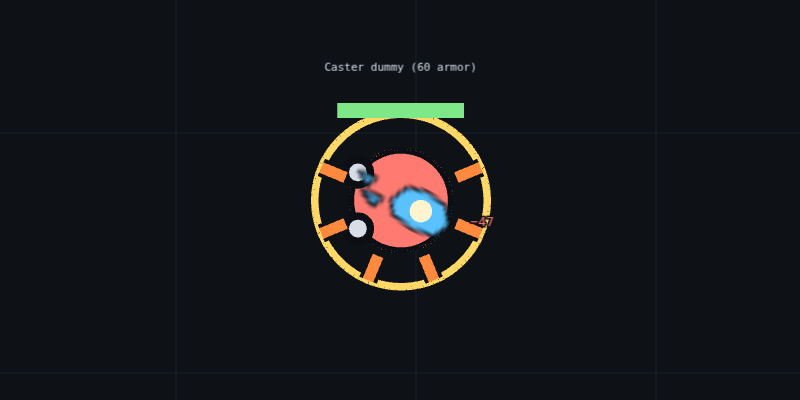
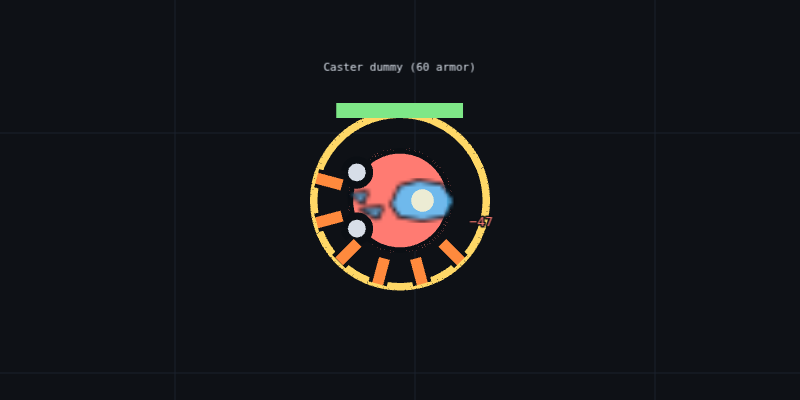
#3292: hit marks clear of the health bar and the damage number
The landing and the star fan six of twelve spikes on the free sides,
below and left, so none crosses the bar above the body or the number
right of it. Health bars get their own render slot over every hit mark
and swing arc. Re-shot the landing and Mighty Blow PNGs.

diff --git a/apps/web/src/render/body-impacts.ts b/apps/web/src/render/body-impacts.ts
@@ -184,8 +184,10 @@ export const IMPACT_REACH = 6;
  * A spiked shape's spikes, from the body's edge: where each starts and
  * ends at the start of the flash, how far both move out by its end, and
  * how they are drawn. A landing and a star reach past the target ring
- * (r + 8), thick and outlined so they read over it in any colour, and
- * leave out the spikes that would point up into the health bar (#3292).
+ * (r + 8), thick and outlined so they read over it in any colour. Of
+ * their twelve spikes round, they keep only those on the free sides,
+ * below and left: none points up into the health bar or right into the
+ * damage number, which starts right of the body and rises (#3292).
  */
 interface SpikeLook {
   readonly inner: number;
@@ -193,15 +195,43 @@ interface SpikeLook {
   readonly grow: readonly [inner: number, outer: number];
   readonly width: number;
   readonly outlined: boolean;
-  readonly clearOfBar: boolean;
+  /** Spikes round the whole body, evenly spaced, before any is left out. */
+  readonly spikes: number;
+  readonly clearOfText: boolean;
 }
 export const SPIKE_LOOK: Readonly<Record<Exclude<ImpactShape, "glow">, SpikeLook>> = {
-  burst: { inner: 1, outer: 3, grow: [2, 3], width: 1.5, outlined: false, clearOfBar: false },
-  landing: { inner: 2, outer: 9, grow: [2, 4], width: 3, outlined: true, clearOfBar: true },
-  star: { inner: -4, outer: 11, grow: [2, 3], width: 3, outlined: true, clearOfBar: true },
+  burst: {
+    inner: 1,
+    outer: 3,
+    grow: [2, 3],
+    width: 1.5,
+    outlined: false,
+    spikes: IMPACT_SPIKES,
+    clearOfText: false,
+  },
+  landing: {
+    inner: 2,
+    outer: 9,
+    grow: [2, 4],
+    width: 3,
+    outlined: true,
+    spikes: 12,
+    clearOfText: true,
+  },
+  star: {
+    inner: -4,
+    outer: 11,
+    grow: [2, 3],
+    width: 3,
+    outlined: true,
+    spikes: 12,
+    clearOfText: true,
+  },
 };
 /** A spike pointing up more steeply than this (sine of its angle, y down) would cross the health bar. */
 const UP_INTO_BAR = -0.7;
+/** A spike pointing right flatter than this (sine, y down) would cross the damage number. */
+const RIGHT_INTO_NUMBER = 0.5;
 const GLOW_TINT_ALPHA = 0.35;
 
 /**
@@ -222,11 +252,14 @@ export function impactMarks(
     const look = SPIKE_LOOK[impact.shape];
     const inner = radius + look.inner + look.grow[0] * progress;
     const outer = radius + look.outer + look.grow[1] * progress;
-    return Array.from({ length: IMPACT_SPIKES }, (_, k) => {
-      const angle = Math.PI / IMPACT_SPIKES + (k * 2 * Math.PI) / IMPACT_SPIKES;
+    return Array.from({ length: look.spikes }, (_, k) => {
+      const angle = Math.PI / look.spikes + (k * 2 * Math.PI) / look.spikes;
       return { cos: Math.cos(angle), sin: Math.sin(angle) };
     })
-      .filter(({ sin }) => !look.clearOfBar || sin >= UP_INTO_BAR)
+      .filter(
+        ({ cos, sin }) =>
+          !look.clearOfText || (sin >= UP_INTO_BAR && (cos <= 0 || sin >= RIGHT_INTO_NUMBER)),
+      )
       .map(({ cos, sin }): ImpactMark => ({
         kind: "spike",
         from: vec2(cos * inner, sin * inner),

diff --git a/apps/web/src/render/body-impacts.test.ts b/apps/web/src/render/body-impacts.test.ts
@@ -13,6 +13,7 @@ import {
   mergeImpacts,
   type Impact,
 } from "./body-impacts.js";
+import { ACTOR_RADIUS, FLOATING_TEXT_OFFSET_X, FLOATING_TEXT_OFFSET_Y } from "./arena-snapshot.js";
 
 const DAMAGE = 0xff7b72;
 const CONDITION = 0xffa657;
@@ -246,13 +247,17 @@ describe("impactMarks (#1139)", () => {
     }
   });
 
-  it("reaches a landing and a star past the target ring, thick and outlined, clear of the health bar (#3292)", () => {
+  it("reaches a landing and a star past the target ring, thick and outlined, clear of the health bar and the damage number (#3292)", () => {
     for (const shape of ["landing", "star"] as const) {
       for (const reducedMotion of [false, true]) {
         for (let step = 0; step <= 10; step += 1) {
           const remainingSeconds = (IMPACT_SECONDS * step) / 10;
-          const marks = impactMarks({ ...impact("a", remainingSeconds), shape }, 14, reducedMotion);
-          // 8 round, less the two that would point up into the bar.
+          const marks = impactMarks(
+            { ...impact("a", remainingSeconds), shape },
+            ACTOR_RADIUS,
+            reducedMotion,
+          );
+          // 12 round, less the ones that would point up into the bar or right into the number.
           expect(marks).toHaveLength(6);
           for (const mark of marks) {
             if (mark.kind !== "spike") {
@@ -260,9 +265,15 @@ describe("impactMarks (#1139)", () => {
             }
             const out = Math.hypot(mark.to.x, mark.to.y);
             // Past the target ring at r + 8, and the dashed edge a ward draws.
-            expect(out).toBeGreaterThan(14 + 8);
-            expect(out).toBeLessThanOrEqual(14 + 15);
+            expect(out).toBeGreaterThan(ACTOR_RADIUS + 8);
+            expect(out).toBeLessThanOrEqual(ACTOR_RADIUS + 15);
             expect(mark.to.y / out).toBeGreaterThanOrEqual(-0.7);
+            // The number starts right of the body with its bottom below the centre, and rises.
+            for (let t = 0; t <= 1; t += 0.25) {
+              const x = mark.from.x + t * (mark.to.x - mark.from.x);
+              const y = mark.from.y + t * (mark.to.y - mark.from.y);
+              expect(x < FLOATING_TEXT_OFFSET_X || y > FLOATING_TEXT_OFFSET_Y).toBe(true);
+            }
             expect(mark.width).toBeGreaterThanOrEqual(3);
             expect(mark.outlined).toBe(true);
           }

diff --git a/apps/web/src/render/arena-scene.ts b/apps/web/src/render/arena-scene.ts
@@ -487,6 +487,7 @@ const FLOOR_DEPTH = renderOrder({ kind: "floor" });
 const LIT_GROUND_DEPTH = renderOrder({ kind: "lit-ground-effect" });
 const MAP_DEPTH = renderOrder({ kind: "terrain" });
 const EFFECT_DEPTH = renderOrder({ kind: "effect" });
+const HEALTH_BAR_DEPTH = renderOrder({ kind: "health-bar" });
 const CAST_BADGE_DEPTH = renderOrder({ kind: "cast-badge" });
 const OVERLAY_DEPTH = renderOrder({ kind: "ui" });
 /** Over every world object, names and numbers included. */
@@ -633,6 +634,8 @@ export class ArenaScene extends Phaser.Scene {
   private readonly standing = new Map<string, RenderableActor>();
   /** Every mark on a body, over the body glyphs (#1037). */
   private markGraphics: Phaser.GameObjects.Graphics | undefined;
+  /** Every health bar, over the marks (#3292). */
+  private barGraphics: Phaser.GameObjects.Graphics | undefined;
   /** Energy barriers' curtains (#3031), added over what is behind them. */
   private barrierGraphics: Phaser.GameObjects.Graphics | undefined;
   /** Each breakable wall's last health seen, and when it fell, for its dust (#3031). */
@@ -860,6 +863,7 @@ export class ArenaScene extends Phaser.Scene {
       .setDepth(EFFECT_DEPTH)
       .setBlendMode(Phaser.BlendModes.ADD);
     this.markGraphics = this.add.graphics().setDepth(EFFECT_DEPTH);
+    this.barGraphics = this.add.graphics().setDepth(HEALTH_BAR_DEPTH);
     this.markerGraphics = this.add.graphics().setDepth(EDGE_MARKER_DEPTH);
     this.nameUnderline = this.add.graphics().setDepth(OVERLAY_DEPTH);
     // Made before any shot's sprite, so under every one at their depth.
@@ -879,6 +883,7 @@ export class ArenaScene extends Phaser.Scene {
       bandMarks.clear();
     }
     effects.clear();
+    this.barGraphics?.clear();
     this.barrierGraphics?.clear();
     const { body: g, marks } = floor;
     this.now = time / 1000;
@@ -2003,7 +2008,9 @@ export class ArenaScene extends Phaser.Scene {
       this.drawCallChevron(marks, actor);
     }
 
-    this.drawHealthBar(marks, actor);
+    if (this.barGraphics !== undefined) {
+      this.drawHealthBar(this.barGraphics, actor);
+    }
 
     if (actor.castProgress !== undefined) {
       this.drawCastBar(marks, actor, actor.castProgress);

diff --git a/apps/web/src/render/render-order.ts b/apps/web/src/render/render-order.ts
@@ -46,6 +46,7 @@ export type RenderItem =
   | { readonly kind: "lift"; readonly upperLayer: number }
   | { readonly kind: "hidden-outline" }
   | { readonly kind: "effect" }
+  | { readonly kind: "health-bar" }
   | { readonly kind: "cast-badge" }
   | { readonly kind: "ui" }
   | { readonly kind: "edge-marker" };
@@ -127,6 +128,8 @@ const RAMP = 5.5;
 const LIFT = 5.6;
 const HIDDEN_OUTLINE = 90;
 const EFFECT = 100;
+/** Health bars, over every hit mark and swing arc so a hit never hides one (#3292). */
+const HEALTH_BAR = 100.25;
 const CAST_BADGE = 100.5;
 const UI = 110;
 const EDGE_MARKER = 120;
@@ -190,6 +193,8 @@ export function renderOrder(item: RenderItem): number {
       return HIDDEN_OUTLINE;
     case "effect":
       return EFFECT;
+    case "health-bar":
+      return HEALTH_BAR;
     case "cast-badge":
       return CAST_BADGE;
     case "ui":

diff --git a/apps/web/src/render/render-order.test.ts b/apps/web/src/render/render-order.test.ts
@@ -15,7 +15,7 @@ import {
 const character = (band: number): RenderItem => ({ kind: "character", band, part: "body" });
 
 describe("renderOrder (#2810, section 8: 12)", () => {
-  it("runs terrain, ground characters, walls, supports, side faces, decks, elevated characters, effects, UI", () => {
+  it("runs terrain, ground characters, walls, supports, side faces, decks, elevated characters, effects, health bars (#3292), cast badges, UI", () => {
     const items: readonly RenderItem[] = [
       { kind: "terrain" },
       character(0),
@@ -25,6 +25,8 @@ describe("renderOrder (#2810, section 8: 12)", () => {
       { kind: "deck", deckLayer: 1 },
       character(1),
       { kind: "effect" },
+      { kind: "health-bar" },
+      { kind: "cast-badge" },
       { kind: "ui" },
     ];
     const orders = items.map(renderOrder);

diff --git a/docs/art/visual-style.md b/docs/art/visual-style.md
@@ -200,8 +200,9 @@ Every rule below can be checked from one screenshot.
     miss shows none (#3292).
 11. **An attack skill** strikes a thick warm arc over the plain swing (melee
     only), held whole before it fades, and a thick, dark-outlined gold star
-    crossing the body's edge and the target ring. Neither hit mark points up
-    into the health bar (#3292).
+    crossing the body's edge and the target ring. Both hit marks fan out on
+    the free sides, clear of the health bar and the damage number, and both
+    of those draw over every hit mark and arc (#3292).
 
 Rules 3 and 7 are checked by CI (#3251): `render/visibility-gate.test.ts`
 draws every map through the scene's own map drawing, records each filled
